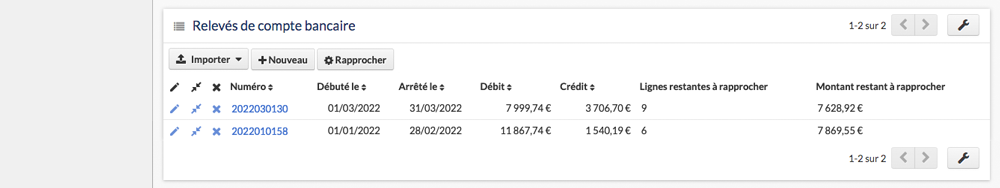
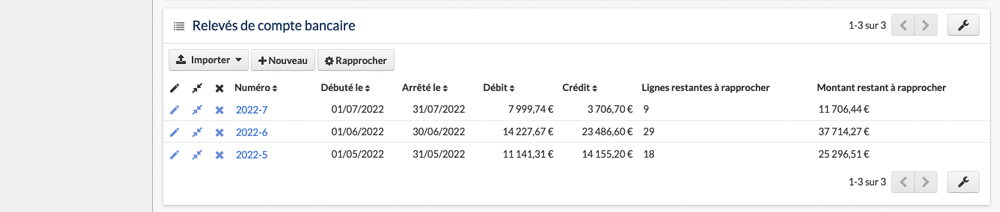
Màj codage doc PDF

diff --git a/content/fr/demarrage.html b/content/fr/demarrage.html
@@ -25,7 +25,7 @@
       </div>
       <h1 align="center" class="texte majuscule aerateur-haut aerateur-bas">Guide de prise en main</h1>
       <p class="texte aerateur-haut aerateur-bas">Ce guide a pour but d'aider l'utilisateur à configurer correctement les applications développées par Ekylibre pour gérer son exploitation agricole ou viticole. Il rassemble les informations et les procédures essentielles à connaître pour maîtriser les fonctionnalités disponibles dans les différents modules de la solution. Cette documentation en ligne a été mise à jour le 12 juillet 2022.</p>
-      <div class="divTableAccueil" style="margin: 0 auto;">
+      <div class="divTableAccueil pdf" style="margin: 0 auto;">
          <div class="divTableBodyAccueil">
             <div class="divTableRowAccueil">
                <div class="divTableCellAccueil1 sommaire" style="width: 200px;"><a href="#sommaire" target="_self"><img src="../images/accueil/icone-doc.png" alt="Documentation Ekylibre" height="100px"></a></div>
@@ -48,6 +48,7 @@
             <p class="texte-advice">Disposant d'un socle technique commun, de nombreuses fonctionnalités abordées dans cette documentation sont disponibles dans les différentes offres proposées par Ekylibre&nbsp;:<br /><br /><img src="../images/accueil/logos-eky.png" alt="Logos Ekylibre"></p>
          </div>
       </div>
+	  <div class="saut-page"></div>
       <h6>Guide de prise en main • Interface de la documentation</h6>
       <h2 class="texte aerateur">Interface de la documentation</h2>
       <div class="pdf">
@@ -578,6 +579,7 @@
       <p class="texte">Entrez vos principaux <a class="avoid-clicks" href="../chapitre8#tiers">tiers</a> &#40;personnel, clients et fournisseurs&#41;, vos <a class="avoid-clicks" href="../chapitre8#equipements">équipements</a> et enregistrez vos <a class="avoid-clicks" href="../chapitre8#stock">stocks</a> initiaux. Importez et créez les articles dont vous avez besoin &#40;on vous explique <a class="avoid-clicks" href="../chapitre8#variantes">pourquoi</a> et <a class="avoid-clicks" href="../chapitre8#nouvelle">comment</a> faire&#41;.</p>
       <p class="texte">Ajoutez les <a class="avoid-clicks" href="../chapitre8#equipiers">équipiers</a> qui pourront être associés aux interventions &#40;vous-même et les autres conducteurs ou opérateurs&#41;.</p>
       <p class="texte">Définissez de nouvelles <a class="avoid-clicks" href="../chapitre9#activites">activités</a> pour la campagne en cours, réalisez votre <a class="avoid-clicks" href="../chapitre9#productions">assolement</a> et commencez la saisie ou la planification d'<a class="avoid-clicks" href="../chapitre9#interventions">interventions</a>. Enregistrez vos <a class="avoid-clicks" href="../chapitre6">achats</a> &#40;intrants, carburant, équipements, prestations de service&#41; ainsi que les <a class="avoid-clicks" href="../chapitre7">ventes</a> de vos produits de récolte.</p>
+	  <div class="saut-page"></div>
       <div class="idea-fond aerateur-haut aerateur-bas">
          <div class="floating-box-idea">
             <img src="../images/commun/astuce.svg" width="100" alt="Astuce"/>

diff --git a/content/fr/chapitre5.html b/content/fr/chapitre5.html
@@ -2747,7 +2747,6 @@
          </p>
          <p>Notez que l'option "Comptabiliser le détail du relevé de compte" permet de générer autant de lignes comptables que de lignes présentes dans le relevé de compte et ainsi d'avoir une évolution précise du solde bancaire. Vous bénéficierez également d'une progression plus régulière des courbes interactives affichées dans la vue "Graphique" des trésoreries.</p>
       </div>
-      <div class="saut-page"></div>
       <div class="warn-fond aerateur-haut aerateur-bas">
          <div class="floating-box-warn">
             <img src="../images/commun/attention.svg" width="100" alt="Attention"/>
@@ -2835,10 +2834,15 @@
       </div>
       <div class="process-txt">
          <span class="titre-advice">Procédez au pointage</span>
-         <p>Cliquez sur le bouton "Pointer". Lors de la première ouverture, les écritures présentes à la même date et ayant le même montant sont rapprochées automatiquement et n'apparaissent pas dans la liste.</p>
+         <p>A - Cliquez sur le bouton "Pointer" si vous avez importé le relevé de compte au format OFX ou CFONB…</p>
 		 <p class="max-img-process">
             <img src="../images/chapitre5/rapprochement2022-5.png" class="contour-img" alt="Pointage des écritures" data-action="zoom" />
          </p>
+		 <p>B - … ou cliquez sur le numéro d'un relevé dans la liste et renseignez la période des écritures à pointer.</p>
+		 <p class="max-img-process">
+            <img src="../images/chapitre5/rapprochement2022-6.png" class="contour-img" alt="Période du rapprochement" data-action="zoom" />
+         </p>
+		 <p class="aerateur-haut">Lors de la première ouverture du fichier ou du relevé, les écritures présentes à la même date et ayant le même montant sont rapprochées automatiquement et n'apparaissent pas dans la liste.</p>
 		 <p>2 indicateurs sont utilisés dans l'interface pour faciliter la lecture des différences détectées&nbsp;:</p>
          <div class="divTableListe">
             <div class="divTableBody">
@@ -3504,6 +3508,7 @@
       <a class="slice-process" id="echange-donnees"></a>
       <h3 align="center" class="texte aerateur procedure">2 – Procédure pour échanger des données comptables</h3>
 	  <p class="texte">Deux types d'échanges comptables sont disponibles dans l'application&nbsp;: les échanges au format Ekylibre et les échanges au format Isacompta. Dans les deux cas, les prérequis pour les mettre en œuvre sont identiques, avec la création préalable d'un tiers &#40;un comptable ou un organisme de gestion&#41; et le paramétrage d'un journal des opérations diverses.</p>
+	  <div class="saut-page"></div>
 	  <div class="warn-fond aerateur-haut aerateur-bas">
          <div class="floating-box-warn">
             <img src="../images/commun/attention.svg" width="100" alt="Attention"/>

diff --git a/content/fr/chapitre7.html b/content/fr/chapitre7.html
@@ -577,7 +577,6 @@
          </p>
 		 <p>Notez que si un taux unique a été choisi lors de la modification, la saisie est sécurisée et permet d'éviter tout risque potentiel d'erreur de sélection de la TVA.</p>
       </div>
-	  <div class="saut-page"></div>
       <h6>Guide de prise en main • Ventes • Types de vente</h6>
       <a class="slice-process" id="types"></a>
       <h2 class="texte aerateur">b - Types de vente</h2>
@@ -652,6 +651,7 @@
             <img src="../images/chapitre7/type-vente5.png" class="contour-img" alt="Nouveau type de vente" data-action="zoom" />
          </p>
       </div>
+	  <div class="saut-page"></div>
       <h6>Guide de prise en main • Ventes • Introduction</h6>
       <a class="slice-process" id="ventes"></a>
       <h2 class="texte aerateur">c - Enregistrer une vente</h2>
@@ -692,6 +692,7 @@
       <p class="texte"><span class="step step-orange">&nbsp;Devis brouillon&nbsp;</span><img src="../images/chapitre7/arrow-right.svg" alt="Flèche" height="20" class="align-icone icone-marge-gauche icone-marge-droite"><span class="step step-orange">&nbsp;Devis envoyé&nbsp;</span><img src="../images/chapitre7/arrow-right.svg" alt="Flèche" height="20" class="align-icone icone-marge-gauche icone-marge-droite"><span class="step step-vert">&nbsp;Facture&nbsp;</span></p>
       <p class="texte"><span class="step step-orange">&nbsp;Devis brouillon&nbsp;</span><img src="../images/chapitre7/arrow-right.svg" alt="Flèche" height="20" class="align-icone icone-marge-gauche icone-marge-droite"><span class="step step-vert">&nbsp;Facture&nbsp;</span></p>
       <p class="texte">En pratique, il n'est donc pas obligatoire de valider chaque étape de l'évolution du statut de la vente pour enregistrer une facture, notamment si vous n'adressez pas de devis à votre client.</p>
+	  <div class="saut-page"></div>
 	  <div class="tabs marge aerateur-haut">
          <div class="tab">
             <input type="checkbox" id="chck1">
@@ -754,7 +755,6 @@
          <span class="titre-advice">Renseignez la nouvelle vente</span>
          <p>Sélectionnez un client dans la liste déroulante ou créez-en un nouveau à la volée.</p>
       </div>
-      <div class="saut-page"></div>
       <div class="warn-fond">
          <div class="floating-box-warn">
             <img src="../images/commun/attention.svg" width="100" alt="Attention"/>
@@ -874,7 +874,7 @@
             <img src="../images/chapitre7/commande.png" class="contour-img" alt="Passer le devis en commande" data-action="zoom" />
          </p>
       </div>
-      <div class="saut-page"></div>
+	  <div class="saut-page"></div>
       <div class="warn-fond aerateur-haut">
          <div class="floating-box-warn">
             <img src="../images/commun/attention.svg" width="100" alt="Attention"/>

diff --git a/content/fr/performance.html b/content/fr/performance.html
@@ -311,14 +311,6 @@
                </div>
                <div class="divTableCellGlossaire2" style="width: 100%">ensemble des charges directes opérationnelles et des charges indirectes ventilées selon les activités de l'exploitation</div>
             </div>
-			<div class="divTableRow">
-               <div class="divTableCellGlossaire1">
-                  Fenêtre modale
-               </div>
-               <div class="divTableCellGlossaire2" style="width: 100%">
-                  dans une interface graphique, c'est une fenêtre qui prend le contrôle total du clavier et de l'écran. Elle est en général associée à une question ou à une sélection à laquelle il est impératif que l'utilisateur réponde avant de poursuivre, ou de modifier quoi que ce soit
-               </div>
-            </div>
             <div class="divTableRow">
                <div class="divTableCellGlossaire1" style="width: auto">
                   Itinéraire cultural

diff --git a/content/fr/chapitre8.html b/content/fr/chapitre8.html
@@ -3790,6 +3790,7 @@
             <img src="../images/chapitre8/contrat8.png" class="contour-img" alt="Nouveau contrat" data-action="zoom" />
          </p>
       </div>
+      <div class="saut-page"></div>
       <div class="warn-fond aerateur-haut aerateur-bas">
          <div class="floating-box-warn">
             <img src="../images/commun/attention.svg" width="100" alt="Attention"/>
